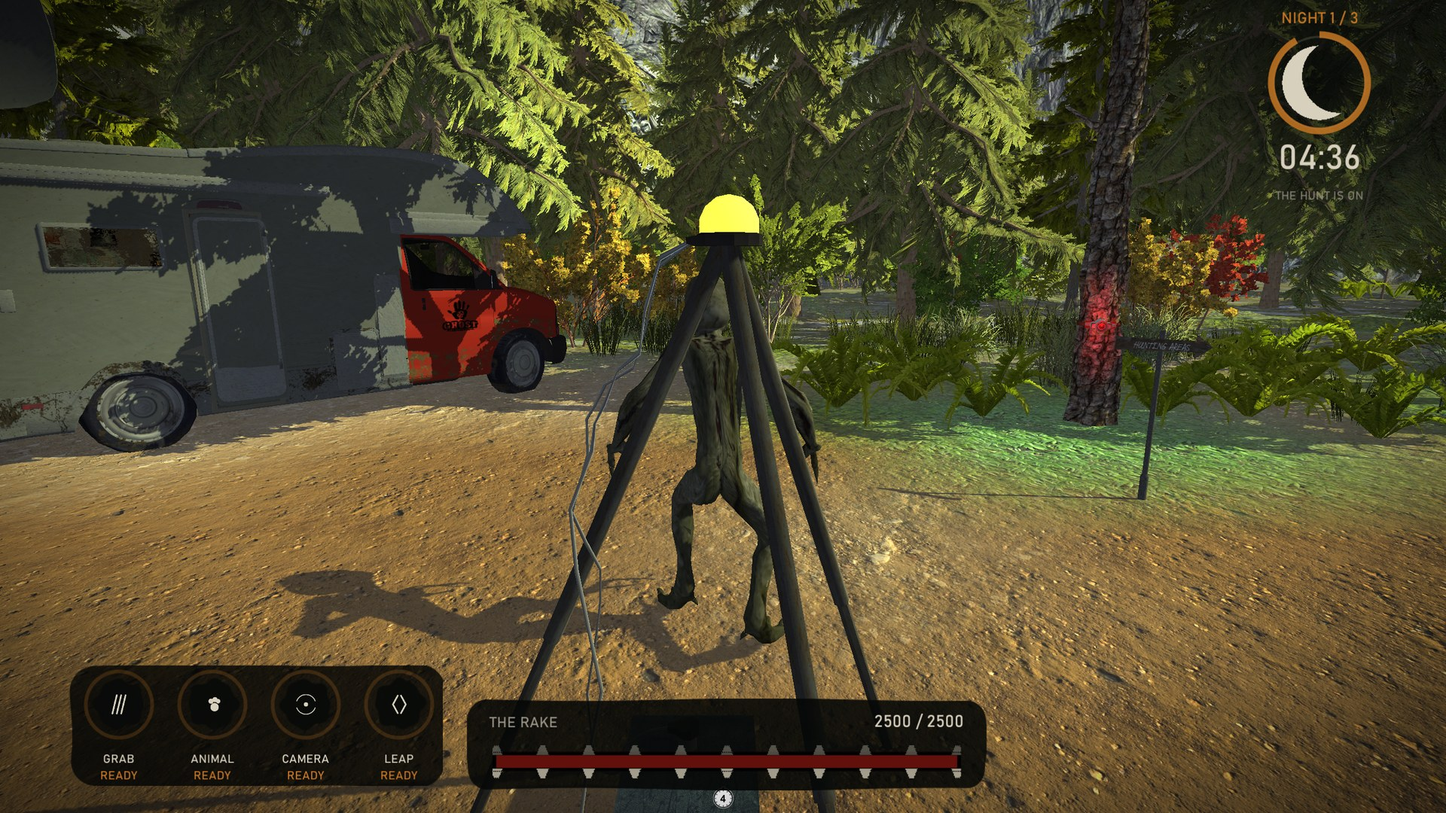
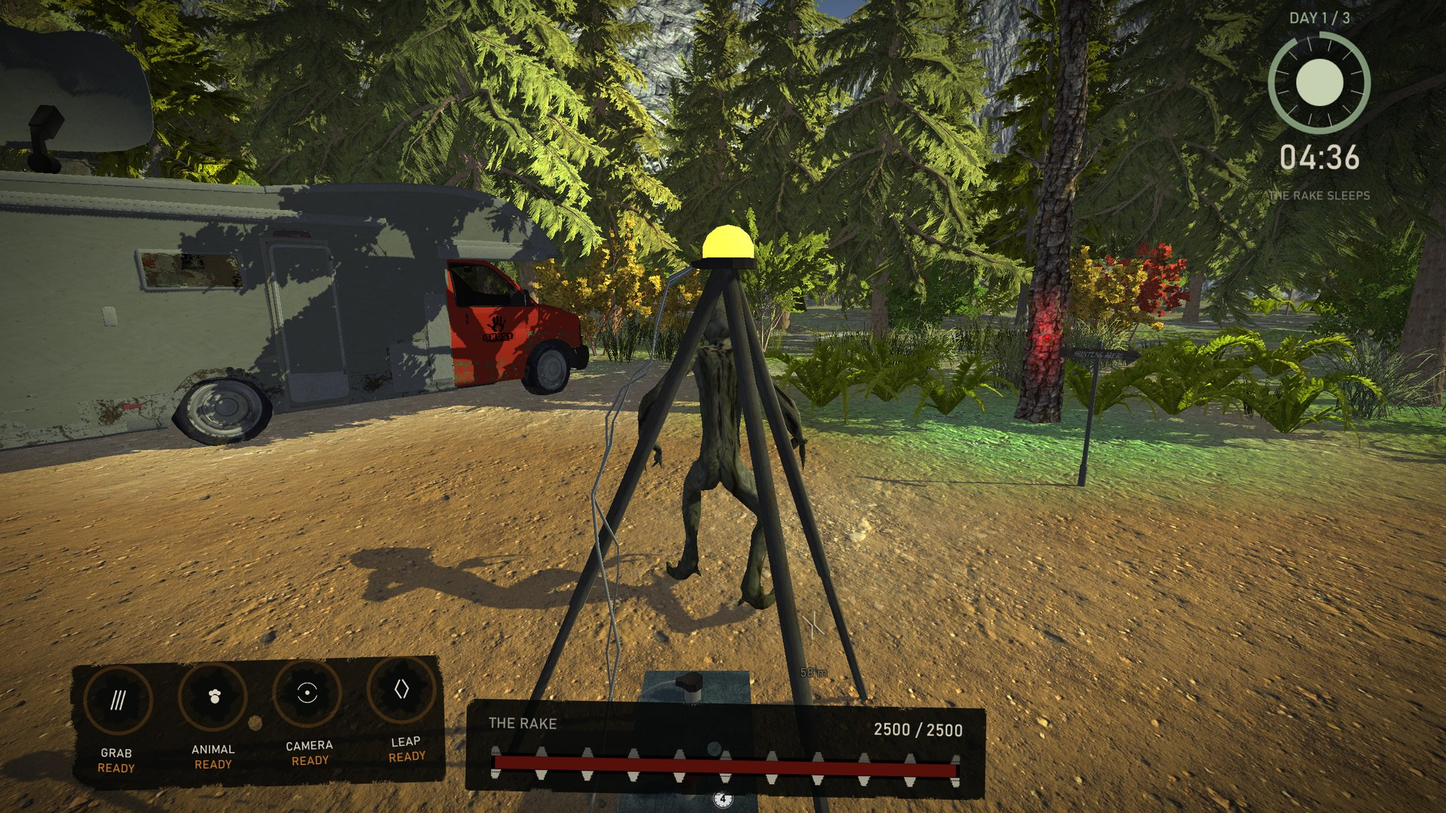
feat(hud): torn panels, red target markers, phase follows the loaded level

diff --git a/RakeMod/Source/RakeMultiplayer/UI/RakeHudUI.cs b/RakeMod/Source/RakeMultiplayer/UI/RakeHudUI.cs
@@ -173,6 +173,7 @@ namespace RakeMultiplayer.UI
             var plate = NewImage("HealthPlate", root, new Color(0.027f, 0.035f, 0.031f, 0.92f), Tex.Plate(700, 122, 31));
             _hpPlate = plate.rectTransform;
             TopLeft(_hpPlate, 620f, 928f, 690f, 122f);
+            _hpPlate.localRotation = Quaternion.Euler(0f, 0f, -1.1f);
 
             // veins behind the plate, hidden until the Rake is hurt
             _hpVeins = NewImage("Veins", plate.transform, new Color(Blood.r, Blood.g, Blood.b, 0f), Tex.Veins());
@@ -233,7 +234,8 @@ namespace RakeMultiplayer.UI
         private void BuildAbilities(RectTransform root)
         {
             var plate = NewImage("AbilityPlate", root, new Color(0.024f, 0.031f, 0.027f, 0.88f), Tex.Plate(508, 160, 77));
-            TopLeft(plate.rectTransform, 92f, 884f, 496f, 160f);
+            TopLeft(plate.rectTransform, 92f, 884f, 496f, 168f);
+            plate.rectTransform.localRotation = Quaternion.Euler(0f, 0f, 1.6f);
 
             string[] names = { "GRAB", "ANIMAL", "CAMERA", "LEAP" };
             Sprite[] glyphs = { Tex.Claw(), Tex.Paw(), Tex.Eye(), Tex.Leap() };
@@ -241,11 +243,12 @@ namespace RakeMultiplayer.UI
             for (int i = 0; i < 4; i++)
             {
                 float cx = 158f + i * 124f;
-                float cy = 936f;
+                float cy = 930f;
 
                 var socket = NewImage("Socket" + i, plate.transform,
                     new Color(0.035f, 0.043f, 0.039f, 0.92f), Tex.Socket(78, 40 + i));
                 TopLeft(socket.rectTransform, cx - 92f - 39f, cy - 884f - 39f, 78f, 78f);
+                socket.rectTransform.localRotation = Quaternion.Euler(0f, 0f, (i - 1.5f) * 2.2f);
 
                 _socketGlow[i] = NewImage("Glow", socket.transform, new Color(Ember.r, Ember.g, Ember.b, 0.35f),
                     Tex.Ring(96, 3f));
@@ -278,7 +281,7 @@ namespace RakeMultiplayer.UI
                 nrt.anchorMin = new Vector2(0.5f, 0f);
                 nrt.anchorMax = new Vector2(0.5f, 0f);
                 nrt.pivot = new Vector2(0.5f, 1f);
-                nrt.anchoredPosition = new Vector2(0f, -22f);
+                nrt.anchoredPosition = new Vector2(0f, -20f);
                 nrt.sizeDelta = new Vector2(110f, 20f);
 
                 _abilityStates[i] = NewText("State", socket.transform, "READY", 16, Ember, TextAnchor.MiddleCenter);
@@ -286,7 +289,7 @@ namespace RakeMultiplayer.UI
                 srt.anchorMin = new Vector2(0.5f, 0f);
                 srt.anchorMax = new Vector2(0.5f, 0f);
                 srt.pivot = new Vector2(0.5f, 1f);
-                srt.anchoredPosition = new Vector2(0f, -44f);
+                srt.anchoredPosition = new Vector2(0f, -40f);
                 srt.sizeDelta = new Vector2(110f, 20f);
             }
         }
@@ -308,6 +311,13 @@ namespace RakeMultiplayer.UI
                 holder.pivot = new Vector2(0.5f, 0.5f);
                 holder.sizeDelta = new Vector2(110f, 110f);
 
+                var halo = NewImage("Halo", holder, new Color(1f, 1f, 1f, 0.55f), Tex.MarkerHalo());
+                var hrt = halo.rectTransform;
+                hrt.anchorMin = new Vector2(0.5f, 0.5f);
+                hrt.anchorMax = new Vector2(0.5f, 0.5f);
+                hrt.anchoredPosition = Vector2.zero;
+                hrt.sizeDelta = new Vector2(112f, 112f);
+
                 var icon = NewImage("Icon", holder, BloodHot, Tex.PreyRing());
                 var irt = icon.rectTransform;
                 irt.anchorMin = new Vector2(0.5f, 0.5f);
@@ -315,7 +325,10 @@ namespace RakeMultiplayer.UI
                 irt.anchoredPosition = Vector2.zero;
                 irt.sizeDelta = new Vector2(108f, 108f);
 
-                var label = NewText("Distance", holder, "0 m", 16, BoneDim, TextAnchor.MiddleCenter);
+                var label = NewText("Distance", holder, "0 m", 17, BoneDim, TextAnchor.MiddleCenter);
+                var outline = label.gameObject.AddComponent<Outline>();
+                outline.effectColor = new Color(0f, 0f, 0f, 0.85f);
+                outline.effectDistance = new Vector2(1f, -1f);
                 var lrt = label.rectTransform;
                 lrt.anchorMin = new Vector2(0.5f, 0.5f);
                 lrt.anchorMax = new Vector2(0.5f, 0.5f);
@@ -407,7 +420,8 @@ namespace RakeMultiplayer.UI
             _phaseKicker.color = accent;
             _phaseSubtitle.text = night ? "THE HUNT IS ON" : "THE RAKE SLEEPS";
             _phaseSubtitle.color = new Color(BoneDim.r, BoneDim.g, BoneDim.b, 0.8f);
-            _moon.color = night ? Bone : new Color(0.72f, 0.78f, 0.70f, 1f);
+            _moon.sprite = night ? Tex.Crescent(160) : Tex.Sun(160);
+            _moon.color = night ? Bone : new Color(0.78f, 0.82f, 0.70f, 1f);
 
             bool hasCycle = dayNight != null && dayNight.IsRunning;
             float left = hasCycle ? dayNight.GetRemainingTime() : 0f;
@@ -564,31 +578,41 @@ namespace RakeMultiplayer.UI
             root.localRotation = Quaternion.identity;
 
             var icon = _markerIcons[index];
+
+            // Every marker points away from the screen centre along its radius.
+            float dirX = nx * BandRadiusX;
+            float dirY = nz * BandRadiusY;
             icon.rectTransform.localRotation =
-                Quaternion.Euler(0f, 0f, Mathf.Atan2(-nx * BandRadiusX, -nz * BandRadiusY) * Mathf.Rad2Deg);
+                Quaternion.Euler(0f, 0f, Mathf.Atan2(dirY, dirX) * Mathf.Rad2Deg - 90f);
             float pulse = 0.5f + 0.5f * Mathf.Sin(_time * 2.6f + index);
             float alpha = 0.5f + 0.4f * (1f - distance / 100f);
 
+            // Red = player or trap; animals stay bone-coloured.
             if (kind == 0)
             {
                 icon.sprite = Tex.PreyRing();
-                icon.color = new Color(Mathf.Lerp(0.55f, 0.73f, pulse), 0.11f, 0.08f, alpha);
-                icon.rectTransform.sizeDelta = new Vector2(108f, 108f);
-                _markerText[index].color = BoneDim;
+                icon.color = new Color(0.86f, 0.10f, 0.07f, Mathf.Lerp(0.75f, 1f, pulse));
+                icon.rectTransform.sizeDelta = new Vector2(124f, 124f);
+                _markerText[index].color = new Color(0.90f, 0.24f, 0.18f, 0.95f);
+
+                float scale = 1f + 0.06f * pulse;
+                icon.rectTransform.localScale = new Vector3(scale, scale, 1f);
             }
             else if (kind == 1)
             {
                 icon.sprite = Tex.Chevrons();
-                icon.color = new Color(0.77f, 0.74f, 0.67f, alpha * 0.75f);
-                icon.rectTransform.sizeDelta = new Vector2(44f, 44f);
-                _markerText[index].color = new Color(BoneDim.r, BoneDim.g, BoneDim.b, 0.6f);
+                icon.color = new Color(0.84f, 0.81f, 0.73f, Mathf.Lerp(0.7f, 0.95f, pulse));
+                icon.rectTransform.sizeDelta = new Vector2(54f, 54f);
+                icon.rectTransform.localScale = Vector3.one;
+                _markerText[index].color = new Color(BoneDim.r, BoneDim.g, BoneDim.b, 0.7f);
             }
             else
             {
                 icon.sprite = Tex.Cross();
-                icon.color = new Color(0.59f, 0.57f, 0.52f, alpha * 0.7f);
-                icon.rectTransform.sizeDelta = new Vector2(32f, 32f);
-                _markerText[index].color = new Color(BoneDim.r, BoneDim.g, BoneDim.b, 0.55f);
+                icon.color = new Color(0.88f, 0.09f, 0.06f, 0.95f);
+                icon.rectTransform.sizeDelta = new Vector2(50f, 50f);
+                icon.rectTransform.localScale = Vector3.one;
+                _markerText[index].color = new Color(0.90f, 0.24f, 0.18f, 0.95f);
             }
 
             _markerText[index].text = Mathf.RoundToInt(distance) + " m";
@@ -785,27 +809,34 @@ namespace RakeMultiplayer.UI
                     var tex = NewTex(w, h);
                     var px = new Color32[w * h];
                     var rnd = new System.Random(seed);
-                    float radius = Mathf.Min(w, h) * 0.22f;
-
-                    // jittered rounded rectangle
-                    float[] noise = new float[16];
-                    for (int i = 0; i < noise.Length; i++) noise[i] = (float)rnd.NextDouble();
+                    float radius = Mathf.Min(w, h) * 0.16f;
 
                     for (int y = 0; y < h; y++)
                     {
                         for (int x = 0; x < w; x++)
                         {
                             float nx = x / (float)w, ny = y / (float)h;
-                            float wobble = (Mathf.Sin(nx * 9.1f + seed) + Mathf.Sin(ny * 7.7f - seed)) * 1.8f;
+
+                            // Torn outline: three harmonics plus per-pixel roughness.
+                            float wobble = Mathf.Sin(nx * 17.3f + seed) * 3.4f
+                                           + Mathf.Sin(ny * 13.7f - seed * 0.7f) * 2.8f
+                                           + Mathf.Sin((nx + ny) * 31.1f + seed * 1.3f) * 2.2f
+                                           + ((x * 73856093 ^ y * 19349663 ^ seed * 83492791) % 1000) / 1000f * 5.2f - 2.6f;
 
                             float dx = Mathf.Max(Mathf.Abs(x - w * 0.5f) - (w * 0.5f - radius), 0f);
                             float dy = Mathf.Max(Mathf.Abs(y - h * 0.5f) - (h * 0.5f - radius), 0f);
                             float d = Mathf.Sqrt(dx * dx + dy * dy) - radius + wobble;
 
                             float a = Mathf.Clamp01(0.5f - d) * 0.97f;
+
+                            // a few bites out of the edge
+                            float bx = (x - w * (0.12f + 0.76f * ((seed * 37) % 100) / 100f));
+                            float by = (y - h * 0.5f);
+                            if (a > 0f && bx * bx + by * by < 90f) a *= 0.25f;
+
                             if (a <= 0.01f) continue;
 
-                            float shade = 0.92f + 0.08f * Mathf.Sin(nx * 21f) * Mathf.Sin(ny * 17f);
+                            float shade = 0.90f + 0.10f * Mathf.Sin(nx * 27f) * Mathf.Sin(ny * 19f);
                             byte v = (byte)(Mathf.Clamp01(shade) * 255f);
                             px[y * w + x] = new Color32(v, v, v, (byte)(a * 255f));
                         }
@@ -835,12 +866,40 @@ namespace RakeMultiplayer.UI
                             float dx = (x - c) / c, dy = (y - c) / c;
                             float ang = Mathf.Atan2(dy, dx);
                             float r = Mathf.Sqrt(dx * dx + dy * dy);
-                            float edge = 0.86f
-                                         + 0.05f * Mathf.Sin(ang * 5f + phase[0])
-                                         + 0.04f * Mathf.Sin(ang * 8f + phase[1]);
-                            float a = Mathf.Clamp01((edge - r) * 18f);
+                            float edge = 0.84f
+                                         + 0.08f * Mathf.Sin(ang * 5f + phase[0])
+                                         + 0.06f * Mathf.Sin(ang * 9f + phase[1])
+                                         + 0.04f * Mathf.Sin(ang * 15f + phase[2])
+                                         + (((x * 73856093 ^ y * 19349663 ^ seed * 83492791) % 1000) / 1000f - 0.5f) * 0.06f;
+                            float a = Mathf.Clamp01((edge - r) * 16f);
                             if (a <= 0.01f) continue;
                             px[y * size + x] = new Color32(255, 255, 255, (byte)(a * 255f));
+                        }
+                    }
+
+                    tex.SetPixels32(px);
+                    tex.Apply(false, true);
+                    return FromTexture(tex);
+                });
+            }
+
+            public static Sprite MarkerHalo()
+            {
+                return Get("markerhalo", delegate
+                {
+                    const int size = 128;
+                    var tex = NewTex(size, size);
+                    var px = new Color32[size * size];
+                    float c = size * 0.5f;
+                    for (int y = 0; y < size; y++)
+                    {
+                        for (int x = 0; x < size; x++)
+                        {
+                            float dx = (x - c) / c, dy = (y - c) / c;
+                            float d = Mathf.Sqrt(dx * dx + dy * dy);
+                            float a = Mathf.Clamp01(1f - d);
+                            a = a * a * 0.55f;
+                            px[y * size + x] = new Color32(0, 0, 0, (byte)(a * 255f));
                         }
                     }
 
@@ -1082,6 +1141,33 @@ namespace RakeMultiplayer.UI
                             if (a <= 0.01f) continue;
                             px[y * size + x] = new Color32(255, 255, 255, (byte)(a * 255f));
                         }
+                    }
+
+                    tex.SetPixels32(px);
+                    tex.Apply(false, true);
+                    return FromTexture(tex);
+                });
+            }
+
+            public static Sprite Sun(int size)
+            {
+                return Get("sun" + size, delegate
+                {
+                    var tex = NewTex(size, size);
+                    var px = new Color32[size * size];
+                    float c = size * 0.5f;
+                    var col = new Color(1f, 1f, 1f, 1f);
+
+                    Disc(px, size, size, c, c, size * 0.20f, col);
+                    for (int i = 0; i < 12; i++)
+                    {
+                        float a = Mathf.Deg2Rad * (i * 30f + 15f);
+                        float r0 = size * 0.27f;
+                        float r1 = size * 0.36f + (i % 2) * size * 0.03f;
+                        Line(px, size, size,
+                            c + Mathf.Cos(a) * r0, c + Mathf.Sin(a) * r0,
+                            c + Mathf.Cos(a) * r1, c + Mathf.Sin(a) * r1,
+                            2.2f, new Color(1f, 1f, 1f, 0.75f));
                     }
 
                     tex.SetPixels32(px);

diff --git a/RakeMod/Source/RakeMultiplayer/Components/RakePlayerController.cs b/RakeMod/Source/RakeMultiplayer/Components/RakePlayerController.cs
@@ -843,7 +843,7 @@ namespace RakeMultiplayer
         }
 
         /// <summary>Dev bridge: switch first/third person and report the camera state.</summary>
-        public static string BridgeCamera(string view, string pitch)
+        public static string BridgeCamera(string view, string pitch, string look)
         {
             if (_instance == null) return "{\"ok\":false,\"error\":\"rake camera is not active\"}";
 
@@ -855,6 +855,40 @@ namespace RakeMultiplayer
                     System.Globalization.CultureInfo.InvariantCulture, out pitchValue))
             {
                 _instance._pitch = Mathf.Clamp(pitchValue, -70f, 65f);
+            }
+
+            if (!string.IsNullOrEmpty(look) && _instance._camera != null)
+            {
+                Vector3 eye = _instance._camera.transform.position;
+                Vector3 target = eye;
+
+                if (look.Equals("animal", System.StringComparison.OrdinalIgnoreCase))
+                {
+                    float best = float.MaxValue;
+                    var animals = Object.FindObjectsOfType<Animal_AI>();
+                    for (int i = 0; i < animals.Length; i++)
+                    {
+                        if (animals[i] == null) continue;
+                        float d = Vector3.Distance(eye, animals[i].transform.position);
+                        if (d < best) { best = d; target = animals[i].transform.position + Vector3.up * 0.6f; }
+                    }
+                }
+                else if (look.Equals("trap", System.StringComparison.OrdinalIgnoreCase))
+                {
+                    float best = float.MaxValue;
+                    var traps = Object.FindObjectsOfType<Trap_proj>();
+                    for (int i = 0; i < traps.Length; i++)
+                    {
+                        if (traps[i] == null) continue;
+                        float d = Vector3.Distance(eye, traps[i].transform.position);
+                        if (d < best) { best = d; target = traps[i].transform.position + Vector3.up * 0.3f; }
+                    }
+                }
+
+                Vector3 to = target - eye;
+                _instance._yaw = Mathf.Atan2(to.x, to.z) * Mathf.Rad2Deg;
+                _instance._pitch = -Mathf.Atan2(to.y, new Vector2(to.x, to.z).magnitude) * Mathf.Rad2Deg;
+                if (_instance._rake != null) _instance._rake.rotation = Quaternion.Euler(0f, _instance._yaw, 0f);
             }
 
             string head = _instance._head != null ? _instance._head.name : string.Empty;

diff --git a/RakeMod/Source/RakeMultiplayer/Core/SessionManager.cs b/RakeMod/Source/RakeMultiplayer/Core/SessionManager.cs
@@ -107,14 +107,22 @@ namespace RakeMultiplayer
             // Find NetworkedRakeAI
             _networkedRake = FindObjectOfType<NetworkedRakeAI>();
 
-            // Start first night
+            // Start on the phase the loaded level actually shows: the game ships
+            // Level_X(Day) and Level_X(Night). Starting "night" on a day scene made the HUD
+            // claim night in broad daylight.
+            bool nightScene = UnityEngine.Application.loadedLevelName != null &&
+                              UnityEngine.Application.loadedLevelName.IndexOf("night",
+                                  System.StringComparison.OrdinalIgnoreCase) >= 0;
+
             if (_dayNightManager != null)
             {
-                _dayNightManager.StartCycle(isNight: true, startingNight: 1);
+                _dayNightManager.StartCycle(isNight: nightScene, startingNight: nightScene ? 1 : 0);
             }
 
             BroadcastSessionState();
-            RakeMultiplayerPlugin.Log?.LogInfo("[SessionManager] Session started - Night 1 begins");
+            RakeMultiplayerPlugin.Log?.LogInfo("[SessionManager] Session started on " +
+                                               (nightScene ? "Night 1" : "Day 1") +
+                                               " (scene '" + UnityEngine.Application.loadedLevelName + "')");
         }
 
         /// <summary>

diff --git a/RakeMod/Source/RakeMultiplayer/Core/GameBridge.cs b/RakeMod/Source/RakeMultiplayer/Core/GameBridge.cs
@@ -183,7 +183,8 @@ namespace RakeMultiplayer.Core
                 {
                     string view = Get(args, "view");
                     string pitch = Get(args, "pitch");
-                    SendJson(client, RunOnMain(delegate { return RakePlayerController.BridgeCamera(view, pitch); }));
+                    string look = Get(args, "look");
+                    SendJson(client, RunOnMain(delegate { return RakePlayerController.BridgeCamera(view, pitch, look); }));
                     return;
                 }
                 if (target == "/hud")

diff --git a/CHANGELOG.md b/CHANGELOG.md
@@ -22,3 +22,6 @@ First public alpha of Rake Multiplayer.
 - Development watchdog no longer closes a normal session after 180 seconds.
 - First-person camera now follows the animated head bone (the skeleton keeps updating while the body is hidden).
 - First person: the eye sits slightly in front of the head so the Rake body can stay visible without the camera clipping into it.
+- HUD reshaped: torn plate edges, crooked panels and tilted ability sockets.
+- Target markers: bigger, with a dark backing, red for players and traps, and always oriented away from the screen centre.
+- Session phase now follows the loaded level: a Day scene starts on Day 1 with a sun icon instead of claiming night.
